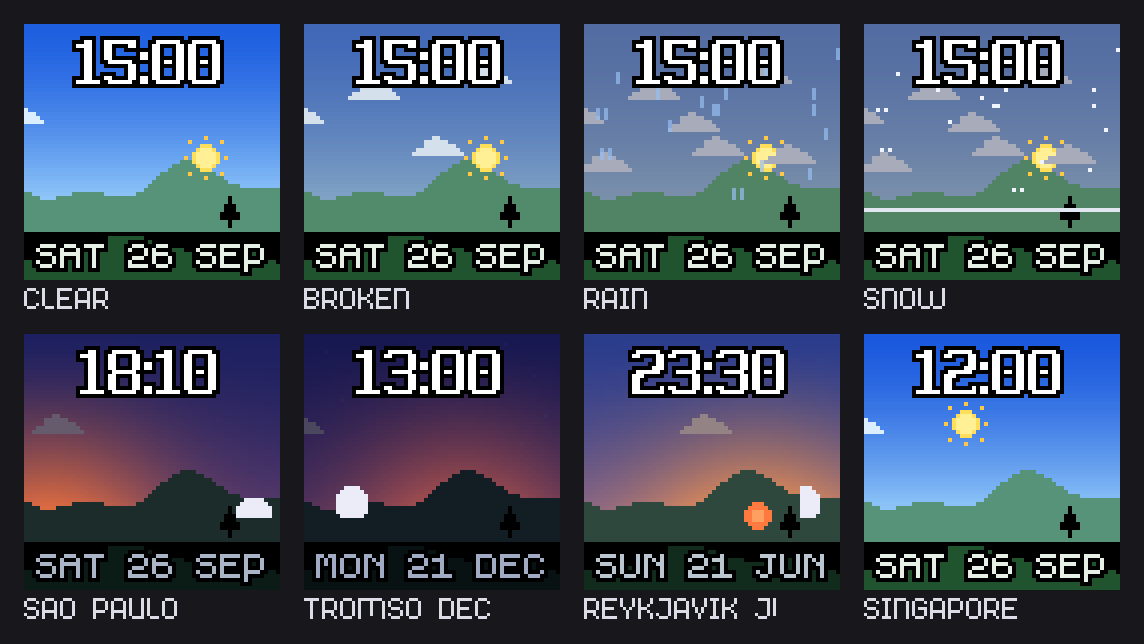
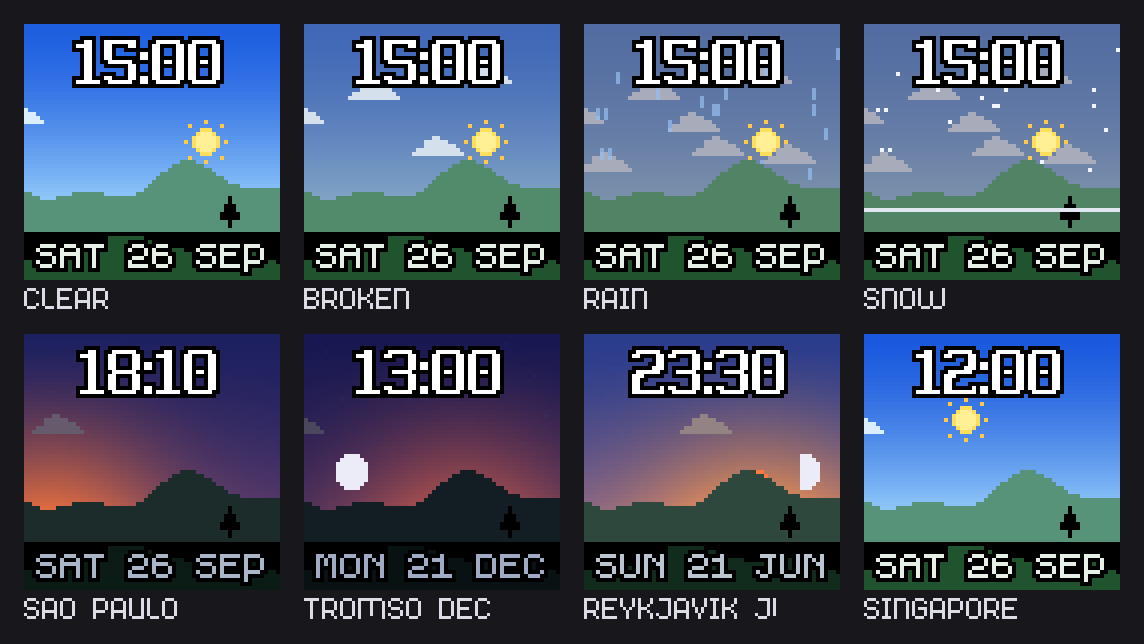
widgets: the horizon's sun and moon rise and set on the far hills' line
Drawn behind the far hills again: a disc rests on their line at +0.7 degrees and slides
behind it by -0.83, the almanac's sunset; the day's arc stays round and symmetric (one
curve from a raised horizon to the zenith, the local line bending the first 5 degrees).
themed::horizon_body_row is host-tested (never dips, symmetric, rest and hidden rows,
New York's sunset); mock and references regenerated; verified on the device.

diff --git a/firmware/components/p64_widgets/src/face_horizon.cpp b/firmware/components/p64_widgets/src/face_horizon.cpp
@@ -5,6 +5,7 @@
 // rain or snow, hills and a tree that darken at night (assets/clock/horizon), the time on
 // top in outlined white (Everyday Vast Black) and the date on the ground. Floating point: the host test compares
 // it with the mock within a tolerance rather than pixel for pixel.
+#include <algorithm>
 #include <cmath>
 
 #include "clock_assets.hpp"
@@ -70,11 +71,47 @@ int sky_x(float az, float el, float lat) {
   return static_cast<int>(std::lround(31.5f - 25.5f * e));
 }
 
-int sky_y(float el) {
-  float t = el / 90;
-  if (t < -0.2f) t = -0.2f;
-  if (t > 1) t = 1;
-  return static_cast<int>(std::lround(45 - 27 * t));
+// The sun and the moon rise and set on the far hills' line, not on the horizon row. The
+// day's arc is one curve of the elevation, the old one lifted onto a raised horizon (the
+// higher of the hill line's two ends) and running to row 18 at the zenith, so it stays
+// round and symmetric. Where the hills under a body are lower than that, the body sinks
+// to their line instead, the difference fading out over the first 5 degrees (it only ever
+// lowers a body near the line, so a body never dips while rising); where they are higher,
+// they simply hide it. The setting: at +0.7 degrees the disc rests on the line, by -0.83
+// (the almanac's sunset: the upper limb at the horizon, refraction included) it has slid
+// behind it, under a pixel a minute for the sun in New York.
+constexpr double kRests = 0.7, kSet = -0.83, kBlend = 5.0;
+constexpr int kZenithY = 18;
+
+// The far hills' top row in the frame per column, smoothed over five columns.
+struct HillLine {
+  double row[64];
+  HillLine() {
+    const sprite::View far = sprite::view(assets::kHorizonFarHills);
+    int tops[64];
+    for (int x = 0; x < 64; ++x) {
+      int y = 0;
+      while (y < far.h && !far.inked(x, y)) ++y;
+      tops[x] = y + kHorizonY - 12;
+    }
+    for (int x = 0; x < 64; ++x) {
+      int sum = 0;
+      for (int d = -2; d <= 2; ++d) sum += tops[std::min(63, std::max(0, x + d))];
+      row[x] = sum / 5.0;
+    }
+  }
+};
+
+bool body_y(const HillLine &line, double el, int x, int radius, int &y) {
+  if (el <= kSet) return false;
+  const double raised = std::min(line.row[0], line.row[63]);
+  const double local = std::max(line.row[std::min(63, std::max(0, x))], raised);
+  const double edge = raised + (local - raised) * std::max(0.0, 1 - (el - kRests) / kBlend);
+  const double rests = edge - radius - 1, hidden = edge + radius;
+  const double cy = el < kRests ? hidden + (rests - hidden) * (el - kSet) / (kRests - kSet)
+                                : rests + (kZenithY - rests) * (std::min(el, 90.0) - kRests) / (90 - kRests);
+  y = static_cast<int>(std::lround(cy));
+  return true;
 }
 
 // A 9 px moon with its terminator; the lit side is the right one while waxing (mirrored in
@@ -102,6 +139,11 @@ void draw_moon(Frame &frame, int x, int y, float phase, float lat, bool dark_sky
 
 }  // namespace
 
+int horizon_body_row(double elevation, int x, int radius) {
+  int y = 0;
+  return body_y(HillLine(), elevation, x, radius, y) ? y : -1;
+}
+
 void draw_horizon(Frame &frame, const Moment &m, const Options &o, const Sky &sky) {
   const float h = m.hour + m.minute / 60.0f;
   const solar::Position sun = solar::sun(sky.latitude, sky.longitude, sky.tz_hours, m.yday, h);
@@ -112,7 +154,7 @@ void draw_horizon(Frame &frame, const Moment &m, const Options &o, const Sky &sk
   top = lerp(top, {110, 116, 130}, grey);
   near = lerp(near, {110, 116, 130}, grey);
   away = lerp(away, {110, 116, 130}, grey);
-  const int sx = sky_x(sun.azimuth, el, sky.latitude), sy = sky_y(el);
+  const int sx = sky_x(sun.azimuth, el, sky.latitude);
   const float glow_width = el < 12 ? 30.0f : 60.0f;
   for (int x = 0; x < Frame::width(); ++x) {
     const float d = (x - sx) / glow_width;
@@ -139,15 +181,14 @@ void draw_horizon(Frame &frame, const Moment &m, const Options &o, const Sky &sk
       ++i;
     }
   }
-  // the far hills stand up to 12 px above the horizon line: the sun and the moon pass in
-  // front of them and set behind the near hills only, at the horizon line
-  sprite::stamp(frame, sprite::view(assets::kHorizonFarHills), 0, kHorizonY - 12,
-                lerp(lerp({8, 14, 26}, {66, 128, 78}, light), away, 0.25f * light));
+  const HillLine line;
   const float phase = solar::moon_phase(m.year, m.yday, h, sky.tz_hours);
   const solar::Position moon = solar::moon(sky.latitude, sky.longitude, sky.tz_hours, m.year, m.yday, h);
-  if (moon.elevation > -2 && el < 25)
-    draw_moon(frame, sky_x(moon.azimuth, moon.elevation, sky.latitude), sky_y(moon.elevation), phase, sky.latitude, el < -6);
-  if (el > -1.5f) {
+  const int mx = sky_x(moon.azimuth, moon.elevation, sky.latitude);
+  int my = 0;
+  if (body_y(line, moon.elevation, mx, 4, my) && el < 25) draw_moon(frame, mx, my, phase, sky.latitude, el < -6);
+  int sy = 0;
+  if (body_y(line, el, sx, 3, sy)) {
     if (el < 6) {
       const float k = std::max(0.0f, el / 6);
       sprite::stamp(frame, sprite::view(assets::kHorizonSunLow), sx - 5, sy - 5, lerp({255, 110, 60}, {255, 222, 90}, k));
@@ -175,6 +216,8 @@ void draw_horizon(Frame &frame, const Moment &m, const Options &o, const Sky &sk
       }
     }
   }
+  sprite::stamp(frame, sprite::view(assets::kHorizonFarHills), 0, kHorizonY - 12,
+                lerp(lerp({8, 14, 26}, {66, 128, 78}, light), away, 0.25f * light));
   sprite::stamp(frame, sprite::view(assets::kHorizonNearHills), 0, kHorizonY, lerp({4, 8, 14}, {32, 84, 46}, light));
   sprite::stamp(frame, sprite::view(assets::kHorizonTree), 49, 43, gfx::kBlack);
   if (sky.precip == Sky::Precip::Snow && light > 0)

diff --git a/firmware/tools/mock_clock_faces.py b/firmware/tools/mock_clock_faces.py
@@ -606,8 +606,37 @@ def sky_x(az, el, lat):
     return int(round(31.5 - 25.5 * e))
 
 
-def sky_y(el):
-    return int(round(45 - 27 * max(-0.2, min(1, el / 90))))
+# The sun and the moon rise and set on the far hills' line, not on the horizon row. The
+# day's arc is one curve of the elevation, the old one lifted onto a raised horizon (the
+# higher of the hill line's two ends) and running to row 18 at the zenith, so it stays
+# round and symmetric. Where the hills under a body are lower than that, the body sinks
+# to their line instead, the difference fading out over the first 5 degrees (it only ever
+# lowers a body near the line, so a body never dips while rising); where they are higher,
+# they simply hide it. The setting: at +0.7 degrees the disc rests on the line, by -0.83
+# (the almanac's sunset: the upper limb at the horizon, refraction included) it has slid
+# behind it, under a pixel a minute for the sun in New York.
+RESTS, SET, BLEND = 0.7, -0.83, 5.0
+ZENITH_Y = 18
+
+
+def hill_line(far):
+    """The far hills' top row in the frame per column, smoothed over five columns."""
+    a = far.split()[-1].load()
+    tops = [next((y for y in range(far.size[1]) if a[x, y] >= 128), far.size[1]) + HORIZON_Y - 12 for x in range(W)]
+    return [sum(tops[min(W - 1, max(0, x + d))] for d in range(-2, 3)) / 5 for x in range(W)]
+
+
+def body_y(el, x, radius, line):
+    """The row of a body's centre (a disc of that radius) at column x, or None once set."""
+    if el <= SET:
+        return None
+    raised = min(line[0], line[W - 1])
+    local = max(line[min(W - 1, max(0, x))], raised)
+    edge = raised + (local - raised) * max(0.0, 1 - (el - RESTS) / BLEND)
+    rests, hidden = edge - radius - 1, edge + radius
+    if el < RESTS:
+        return int(round(hidden + (rests - hidden) * (el - SET) / (RESTS - SET)))
+    return int(round(rests + (ZENITH_Y - rests) * (min(el, 90) - RESTS) / (90 - RESTS)))
 
 
 # Colours keyed by the sun's elevation: (elevation, top of sky, horizon near the sun,
@@ -735,7 +764,7 @@ def draw_horizon(m, o, lat=40.0, lon=0.0, tz=0.0, year=2026, cover=0, precip="")
     top, near_c, away_c = sky_palette(el)
     grey = 0.22 * cover
     top, near_c, away_c = (lerp(c, (110, 116, 130), grey) for c in (top, near_c, away_c))
-    sx, sy = sky_x(az, el, lat), sky_y(el)
+    sx = sky_x(az, el, lat)
     glow_width = 30 if el < 12 else 60
     for x in range(W):
         w = math.exp(-((x - sx) / glow_width) ** 2)
@@ -752,14 +781,15 @@ def draw_horizon(m, o, lat=40.0, lon=0.0, tz=0.0, year=2026, cover=0, precip="")
                 for dx, dy in ((1, 0), (-1, 0), (0, 1), (0, -1)):
                     if 0 <= x + dx < W and 0 <= y + dy < HORIZON_Y:
                         frame.set(x + dx, y + dy, lerp(frame.get(x + dx, y + dy), (150, 150, 190), star_k))
-    # the far hills stand up to 12 px above the horizon line: the sun and the moon pass in
-    # front of them and set behind the near hills only, at the horizon line
-    blit_tinted(frame, far, 0, HORIZON_Y - 12, lerp(lerp((8, 14, 26), (66, 128, 78), light), away_c, 0.25 * light))
+    line = hill_line(far)
     phase = moon_phase(year, m.yday, h, tz)
     mel, maz = moon_position(lat, lon, tz, year, m.yday, h)
-    if mel > -2 and el < 25:
-        draw_moon(frame, sky_x(maz, mel, lat), sky_y(mel), phase, lat, el < -6)
-    if el > -1.5:
+    mx = sky_x(maz, mel, lat)
+    my = body_y(mel, mx, 4, line)
+    if my is not None and el < 25:
+        draw_moon(frame, mx, my, phase, lat, el < -6)
+    sy = body_y(el, sx, 3, line)
+    if sy is not None:
         if el < 6:
             k = max(0.0, el / 6)
             blit_tinted(frame, sun_low, sx - 5, sy - 5, lerp((255, 110, 60), (255, 222, 90), k))
@@ -783,6 +813,7 @@ def draw_horizon(m, o, lat=40.0, lon=0.0, tz=0.0, year=2026, cover=0, precip="")
                         frame.set(x, y + k, lerp(frame.get(x, y + k), (150, 190, 240), 0.7))
             else:
                 frame.set(x, y, (240, 244, 255))
+    blit_tinted(frame, far, 0, HORIZON_Y - 12, lerp(lerp((8, 14, 26), (66, 128, 78), light), away_c, 0.25 * light))
     blit_tinted(frame, near, 0, HORIZON_Y, lerp((4, 8, 14), (32, 84, 46), light))
     blit_tinted(frame, tree, 49, 43, (0, 0, 0))
     if precip == "snow" and light > 0:

diff --git a/firmware/tests/host/unit/themed.cpp b/firmware/tests/host/unit/themed.cpp
@@ -337,16 +337,18 @@ TEST_CASE("themed: 12-hour mode blanks the leading zero and shows AM or PM on ev
   CHECK_FALSE(same(a, b));
 }
 
-TEST_CASE("themed: the horizon's low sun shows above the hills until it sets") {
-  // New York, 2026-09-26: the far hills stand 12 px above the horizon line on the right,
-  // where the sun sets; the sun used to hide behind them from 18 degrees up
+TEST_CASE("themed: the horizon's sun sets on the far hills' line at the almanac's sunset") {
+  // New York, 2026-09-26 (the almanac: sunset 18:46 EDT). The disc rests on the hill line
+  // until 18:40, slides behind it and is gone by 18:48 (the solar model runs about 0.3
+  // degrees high: two minutes); the far hills stand 5 px above the horizon there and used
+  // to hide it an hour early.
   themed::Sky ny;
   ny.latitude = kNyLat, ny.longitude = kNyLon, ny.tz_hours = kNyTz;
   const auto sun_pixels = [&](int h, int m) {
     Frame f;
     themed::draw_horizon(f, themed::Moment::from(moment(h, m)), themed::Options{}, ny);
     int n = 0;
-    for (int y = 30; y < 46; ++y)
+    for (int y = 25; y < 46; ++y)
       for (int x = 40; x < 64; ++x) {
         const Rgb c = f.get(x, y);
         if (c.r > 220 && c.g > 90 && c.b < 160) ++n;  // the disc, red to gold
@@ -355,9 +357,37 @@ TEST_CASE("themed: the horizon's low sun shows above the hills until it sets") {
   };
   for (const int hm : {1700, 1740, 1800, 1820, 1840}) {
     CAPTURE(hm);
-    CHECK(sun_pixels(hm / 100, hm % 100) >= 9);
+    CHECK(sun_pixels(hm / 100, hm % 100) >= 30);  // the whole 7 px disc
   }
-  CHECK(sun_pixels(19, 5) == 0);  // set
+  const int half = sun_pixels(18, 43);
+  CHECK(half > 0);
+  CHECK(half < 30);
+  CHECK(sun_pixels(18, 48) == 0);
+  CHECK(sun_pixels(19, 5) == 0);
+}
+
+TEST_CASE("themed: the horizon's bodies rest on the hill line, never dip while rising, and arc symmetrically") {
+  for (const int radius : {3, 4}) {
+    for (int x = 0; x < 64; ++x) {
+      CAPTURE(radius);
+      CAPTURE(x);
+      CHECK(themed::horizon_body_row(-0.84, x, radius) == -1);
+      int previous = 64;
+      for (double el = -0.82; el <= 90; el += 0.05) {
+        const int y = themed::horizon_body_row(el, x, radius);
+        REQUIRE(y >= 0);
+        CHECK(y <= previous);
+        previous = y;
+      }
+      CHECK(themed::horizon_body_row(90, x, radius) == 18);
+    }
+    // above the first 5 degrees the arc is the same in every column (round, symmetric)
+    for (const double el : {6.0, 15.0, 30.0, 60.0})
+      for (int x = 1; x < 64; ++x) CHECK(themed::horizon_body_row(el, x, radius) == themed::horizon_body_row(el, 0, radius));
+  }
+  // at rest the disc's bottom row is just above the hill line, at the hidden end its top is on it
+  CHECK(themed::horizon_body_row(0.7, 57, 3) == 41 - 3 - 1);
+  CHECK(themed::horizon_body_row(-0.8, 57, 3) == 41 + 3);
 }
 
 TEST_CASE("themed: the horizon is dark at night and bright by day, and the weather greys it") {

diff --git a/firmware/components/p64_widgets/src/themed.hpp b/firmware/components/p64_widgets/src/themed.hpp
@@ -58,6 +58,9 @@ struct Sky {
   enum class Precip : uint8_t { None, Rain, Snow } precip = Precip::None;
 };
 void draw_horizon(gfx::Frame &frame, const Moment &m, const Options &o, const Sky &sky);
+// The row of a body's centre at column x (the sun's disc has radius 3, the moon's 4): on
+// the far hills' line at +0.7 degrees, behind it by -0.83 (then -1), a round arc above.
+int horizon_body_row(double elevation, int x, int radius);
 
 // 4. Words: the time spelled on a letter grid (twelve-hour by nature).
 void draw_words(gfx::Frame &frame, const Moment &m, const Options &o);

diff --git a/firmware/docs/PROGRESS.md b/firmware/docs/PROGRESS.md
@@ -1067,6 +1067,31 @@ shows where things stand. Spec: `docs/spec/p64-spec.md`. Design: `architecture.m
   exact against the mock at 16:23 EDT; `widgets_smoke`, `faces_smoke`, `ui_smoke` 0
   failures; `api_smoke`'s only failure is the first artwork after boot, the device having
   booted into the clock widget.
+- 2026-10-01, the horizon's sun sets on the hill line (prompt p062; replaces drawing the
+  bodies over the far hills, which looked odd). Decided with the user after a pros/cons
+  review and two mock sheets: the bodies are drawn behind the far hills again and rise
+  and set on their line (the far-hill sprite's top row, smoothed over five columns): the
+  disc rests on it at +0.7 degrees and slides behind it by -0.83, the almanac's sunset,
+  about 0.9 px a minute for the sun in New York; the moon follows the same rule. A first
+  mapping lifted each column by its own hill height (fading by 90 degrees; the 20-degree
+  fade first offered would have made the sun dip while rising, the hill and the disc
+  being about 20 degrees of the panel's scale) and bulged the arc over the peak; the
+  user asked for a round, symmetric path, so the arc is one curve of the elevation from
+  a raised horizon (the higher of the line's two ends, row 41) to row 18, the local line
+  bending only the first 5 degrees where it is lower; where the hills stand higher (the
+  peak), they hide a low body (Tromso's February sun passes behind it). `themed::
+  horizon_body_row` is the rule, host-tested: hidden below -0.83, never rising less
+  as the elevation grows in any column, the same row in every column above 5 degrees,
+  the rest and hidden rows; and New York's sun on 2026-09-26 whole until 18:40, partly
+  hidden at 18:43, gone at 18:48 (the almanac: 18:46; the solar model runs 0.3 degrees
+  high). The hill line is computed per frame on the stack (no static RAM; `player` keeps
+  9 KB of stack free). Device: pixel for pixel the mock at 18:47 in New York and,
+  mid-slide, at 40.7 N 77.3 W and 77.8 W; `faces_smoke` 0 failures on a rerun (its LED
+  glow check failed twice, timing-sensitive); `widgets_smoke` stops on
+  `/api/v1/history`, whose JSON holds a Divoom name cut inside a UTF-8 character (the
+  private index's 36-byte name field), not fixed here; `api_smoke` fails the first
+  artwork after boot (booted in the clock widget) and the internal largest block, 29.7 KB
+  against the 32 KB floor with the private walk running (the change allocates nothing).
 - Remaining: the acceptance measurements that need instruments (camera at 240 fps, a
   power meter), a 12 h and a 24 h soak (`soak.py --minutes 720` when the device can be
   left alone), and the hands-on checks (taps, rotation direction, BOOT hold, the Photo

diff --git a/firmware/docs/design/clock-candidates/README.md b/firmware/docs/design/clock-candidates/README.md
@@ -68,9 +68,13 @@ hour of every day, and every place, looks like itself:
   phase (terminator drawn per pixel, from its elongation from the sun) where it really
   is: the Astronomical Almanac's low-precision moon, about 0.3 degrees (since
   2026-10-01; a phase-only estimate before, up to 20 degrees off); on a dark sky its
-  night side shows faintly. The sun and the moon pass in front of the far hills and set
-  behind the near hills, at the horizon line (since 2026-10-01; before, the far hills hid
-  the setting sun from 18 degrees up).
+  night side shows faintly. The sun and the moon rise and set on the far hills' line
+  (since 2026-10-01; before, the far hills hid the setting sun from 18 degrees up): the
+  disc rests on the line at +0.7 degrees and has slid behind it by -0.83, the almanac's
+  sunset (under a pixel a minute); the day's arc is the old round one lifted onto a
+  raised horizon (the higher end of the hill line) up to row 18 at the zenith, the local
+  line bending only the first 5 degrees; where the hills stand higher than that horizon
+  (the peak), they hide a low body.
 - The weather widget's current condition, when a location is set, adds clouds (one, two,
   four or seven by the cover, lit by the sky), greys the sky, and streaks rain or drops
   snow, with a snow line on the ground.
